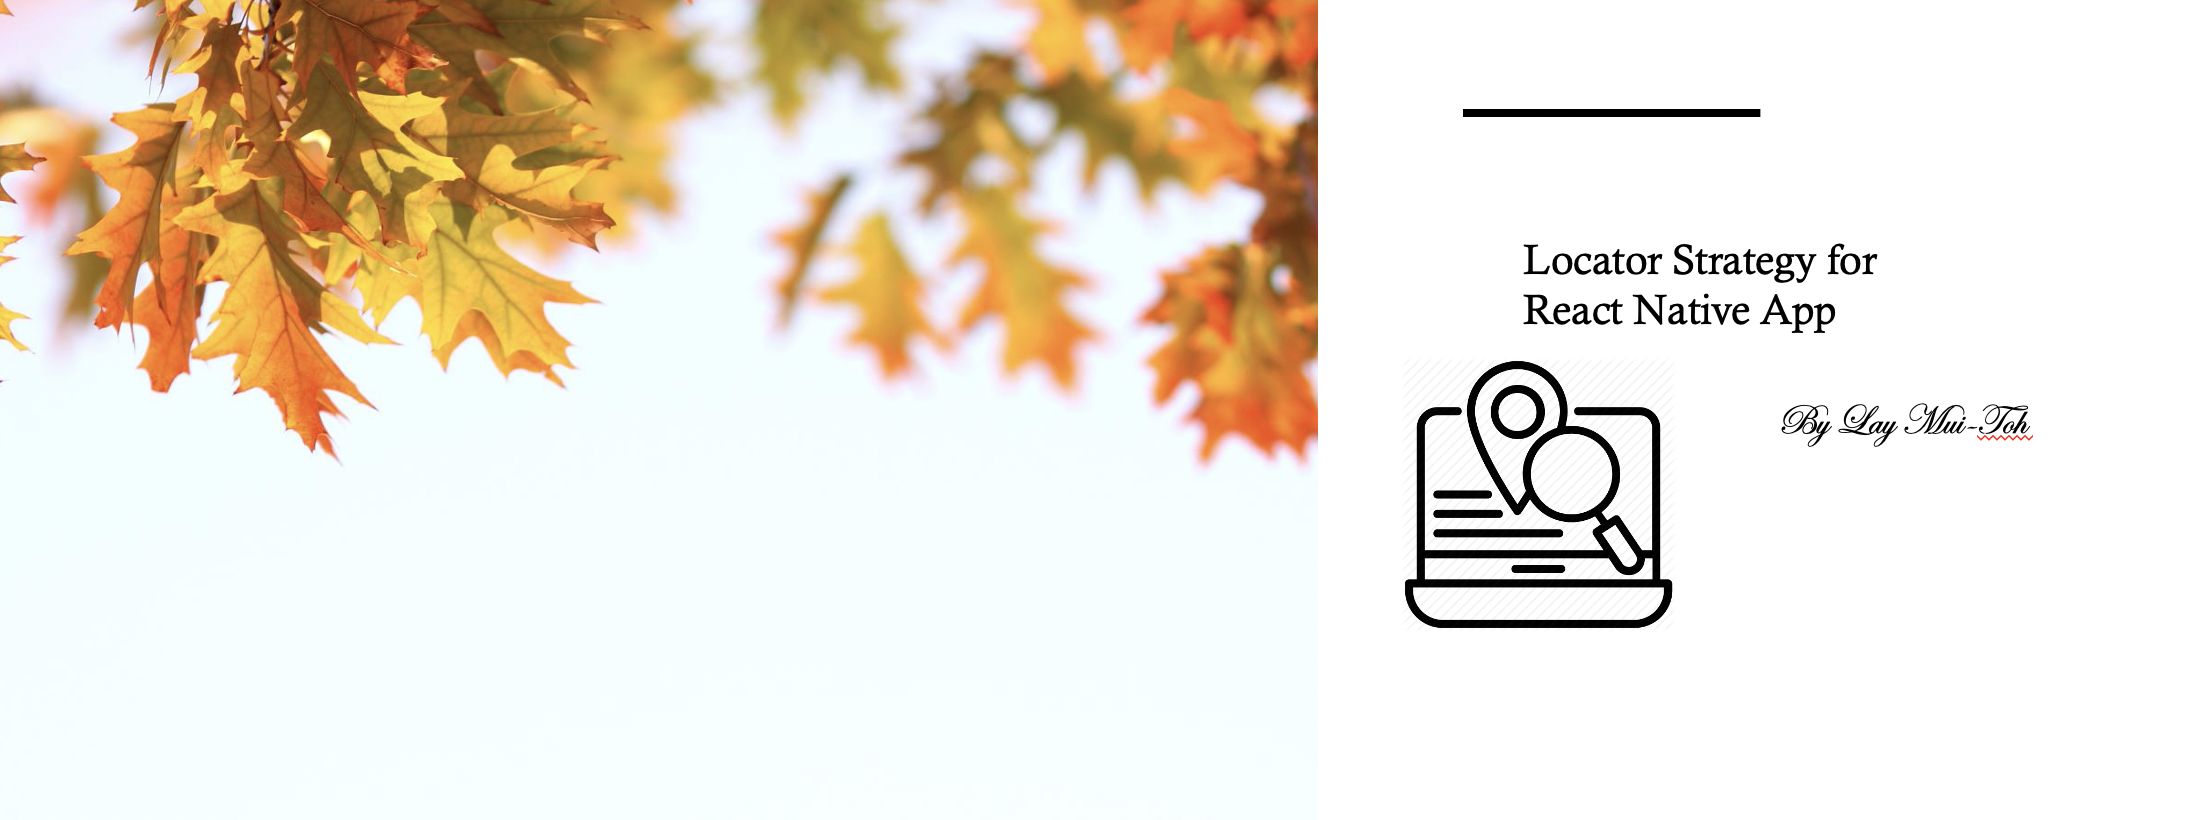
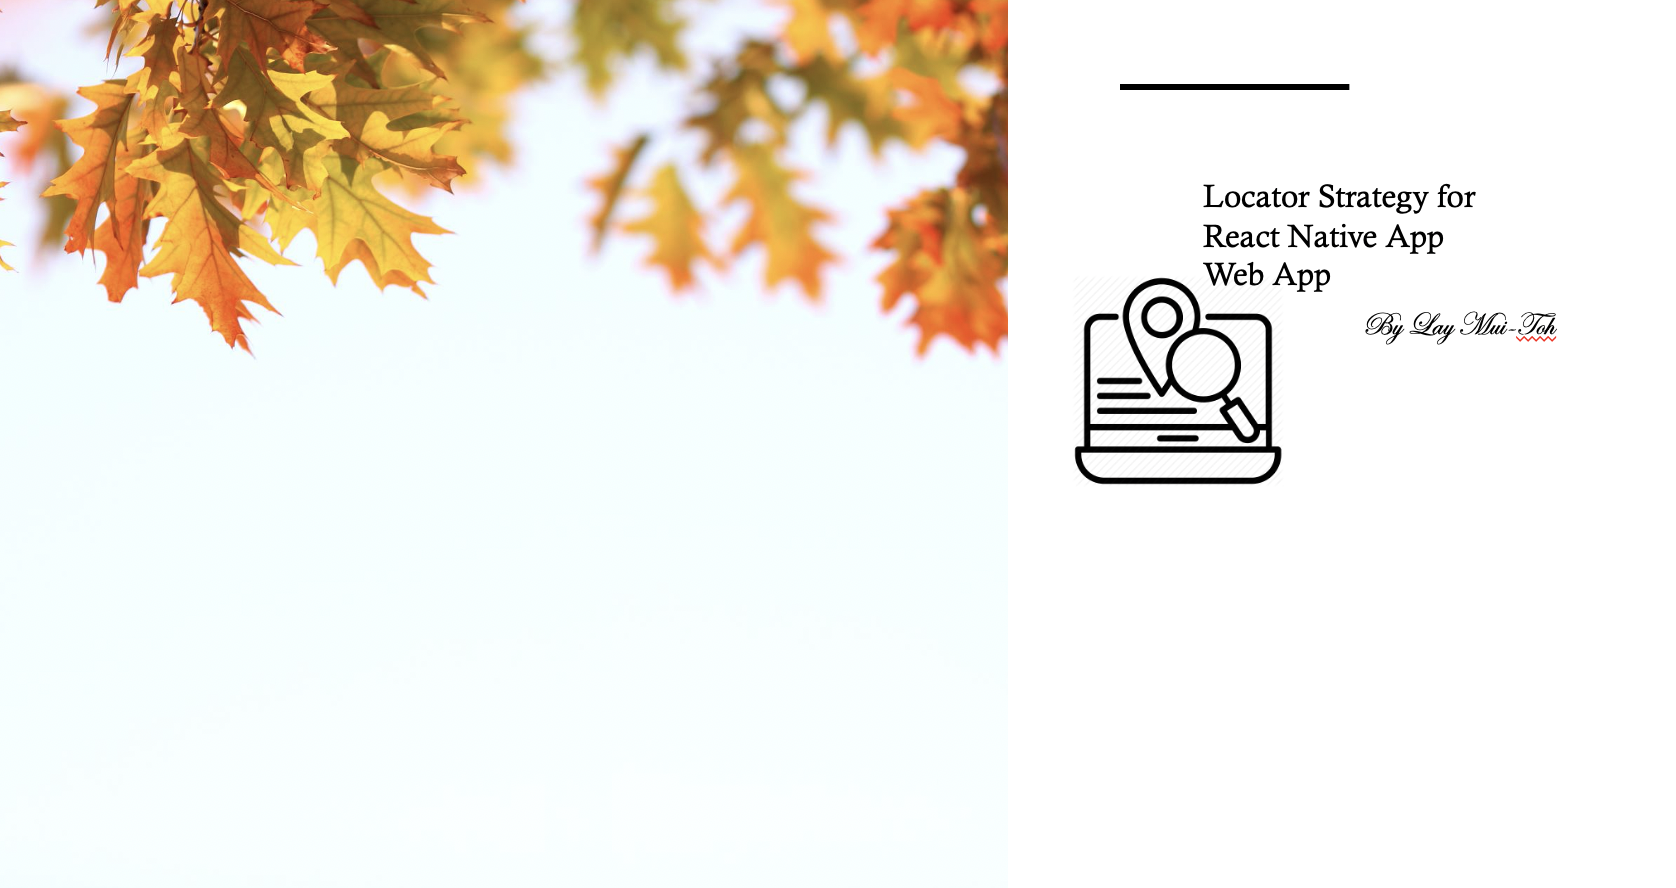
Add slides for web app locator strategy

Changed region(s): [[0.0, 0.0, 0.9308, 0.7927], [0.6516, 0.0915, 0.8067, 0.1524], [0.8067, 0.4878, 0.9308, 0.5488]]

diff --git a/src/views/pages/index.js b/src/views/pages/index.js
@@ -14,7 +14,8 @@ import locatorStrategy13 from './locatorStrategy13.vue'
 import locatorStrategy14 from './locatorStrategy14.vue'
 import locatorStrategy15 from './locatorStrategy15.vue'
 import locatorStrategy16 from './locatorStrategy16.vue'
-
+import locatorStrategy17 from './locatorStrategy17.vue'
+import locatorStrategy18 from './locatorStrategy18.vue'
 const pages = [
   {
     name: 'Page 1',
@@ -128,7 +129,20 @@ const pages = [
     },
     component: locatorStrategy16
   },
-
+  {
+    name: 'Page 17',
+    meta: {
+      title: 'locator strategy for UI automation for web app'
+    },
+    component: locatorStrategy17
+  },
+  {
+    name: 'Page 18',
+    meta: {
+      title: 'test automation code for web app'
+    },
+    component: locatorStrategy18
+  },
   
 ]
 

diff --git a/src/views/pages/locatorStrategy17.vue b/src/views/pages/locatorStrategy17.vue
@@ -1,0 +1,7 @@
+<template>
+  <div class="text-center">
+    <img  src="../../assets/image/locatorStrategy16.png"/>
+
+   
+  </div>
+</template>

diff --git a/src/views/pages/locatorStrategy18.vue b/src/views/pages/locatorStrategy18.vue
@@ -1,0 +1,7 @@
+<template>
+  <div class="text-center">
+    <img  src="../../assets/image/locatorStrategy17.png"/>
+
+   
+  </div>
+</template>
